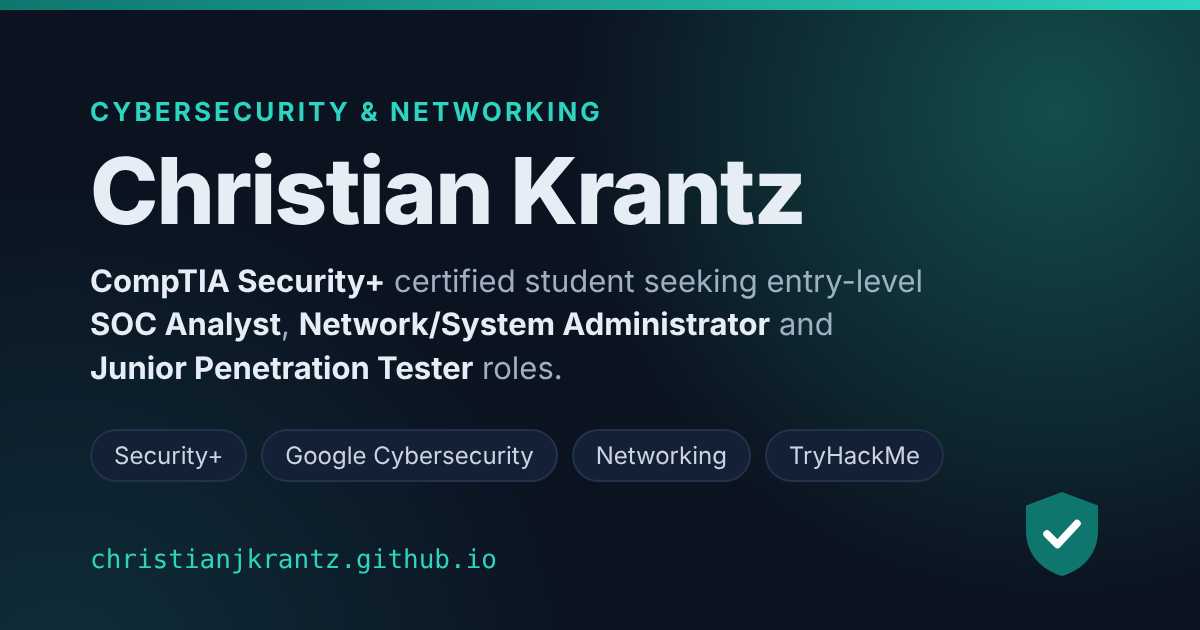
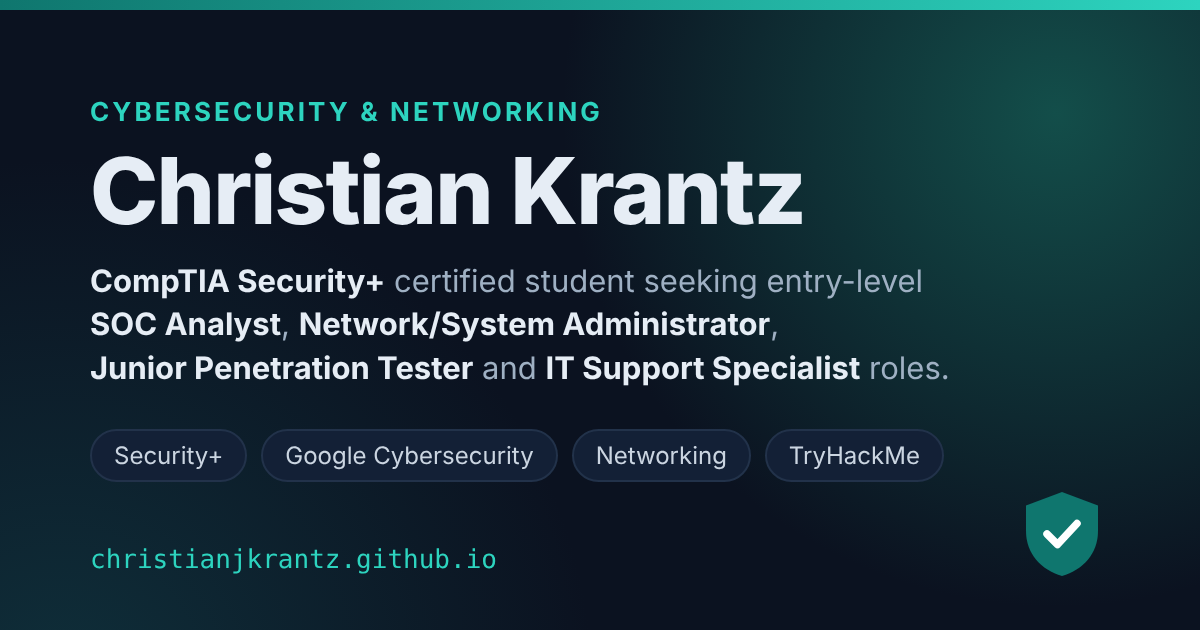
Add IT Support Specialist to target roles

Changed region(s): [[0.4008, 0.5429, 0.8017, 0.6032], [0.6475, 0.4825, 0.7092, 0.5429]]

diff --git a/index.html b/index.html
@@ -4,13 +4,13 @@
   <meta charset="UTF-8">
   <meta name="viewport" content="width=device-width, initial-scale=1.0">
   <title>Christian Krantz | Cybersecurity &amp; Networking</title>
-  <meta name="description" content="Christian Krantz is a CompTIA Security+ certified Cybersecurity & Networking student seeking an entry-level SOC Analyst, Network/System Administrator or Junior Penetration Tester role.">
+  <meta name="description" content="Christian Krantz is a CompTIA Security+ certified Cybersecurity & Networking student seeking an entry-level SOC Analyst, Network/System Administrator, Junior Penetration Tester or IT Support Specialist role.">
   <meta name="color-scheme" content="light dark">
   <meta property="og:title" content="Christian Krantz | Cybersecurity & Networking">
   <meta property="og:description" content="CompTIA Security+ certified Cybersecurity & Networking student. Certifications, skills and projects.">
   <meta property="og:type" content="website">
   <meta property="og:url" content="https://christianjkrantz.github.io/">
-  <meta property="og:image" content="https://christianjkrantz.github.io/assets/img/og-image.png?v=2">
+  <meta property="og:image" content="https://christianjkrantz.github.io/assets/img/og-image.png?v=3">
   <meta property="og:image:width" content="1200">
   <meta property="og:image:height" content="630">
   <meta property="og:image:alt" content="Christian Krantz, Cybersecurity &amp; Networking student, CompTIA Security+ certified">
@@ -52,7 +52,7 @@
         <h1>Hi, I'm Christian Krantz.</h1>
         <p class="lead">
           I'm a CompTIA Security+ certified student at State Technical College of Missouri, looking for an
-          entry-level <strong>SOC Analyst</strong>, <strong>Network/System Administrator</strong> or <strong>Junior Penetration Tester</strong> role.
+          entry-level <strong>SOC Analyst</strong>, <strong>Network/System Administrator</strong>, <strong>Junior Penetration Tester</strong> or <strong>IT Support Specialist</strong> role.
         </p>
         <p class="location">
           <svg viewBox="0 0 24 24" width="18" height="18" aria-hidden="true"><path d="M12 22s7-6.2 7-12a7 7 0 1 0-14 0c0 5.8 7 12 7 12Z" fill="none" stroke="currentColor" stroke-width="2"/><circle cx="12" cy="10" r="2.5" fill="currentColor"/></svg>
@@ -83,6 +83,7 @@
 <span class="t-key">seeking </span> SOC Analyst
 <span class="t-key">        </span> Network/System Administrator
 <span class="t-key">        </span> Junior Penetration Tester
+<span class="t-key">        </span> IT Support Specialist
 
 <span class="t-prompt">$</span> <span class="t-cursor" aria-hidden="true"></span></pre>
         </figure>
@@ -381,7 +382,7 @@
     <section id="contact" class="section contact">
       <div class="container narrow center">
         <h2>Let's connect</h2>
-        <p>I'm open to entry-level SOC analyst, network and system administration, and junior penetration testing opportunities. The best way to reach me is by email.</p>
+        <p>I'm open to entry-level SOC analyst, network and system administration, junior penetration testing and IT support opportunities. The best way to reach me is by email.</p>
         <div class="hero-actions center">
           <a class="btn btn-primary" href="mailto:christianjkrantz@gmail.com">christianjkrantz@gmail.com</a>
           <a class="btn btn-outline" href="https://www.linkedin.com/in/christianjkrantz" target="_blank" rel="noopener">LinkedIn</a>
